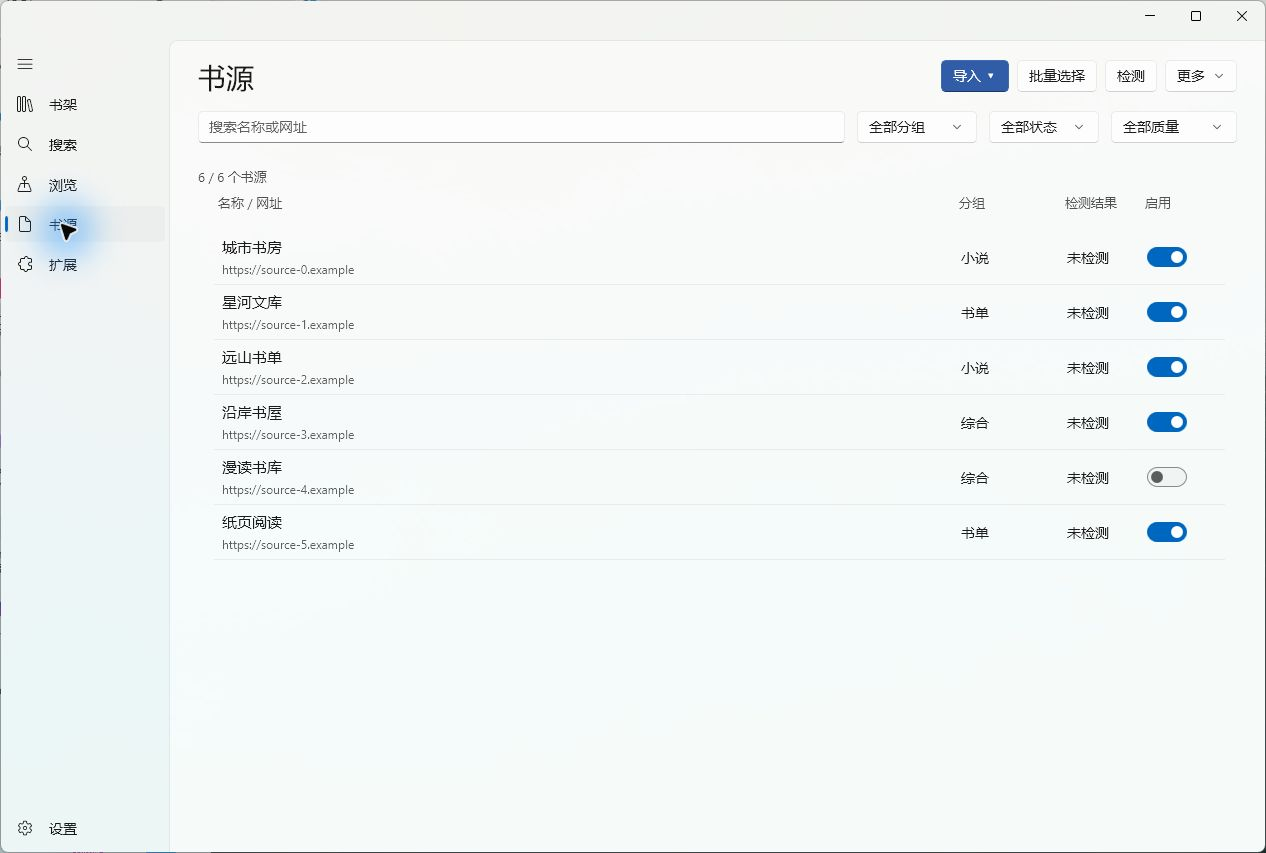
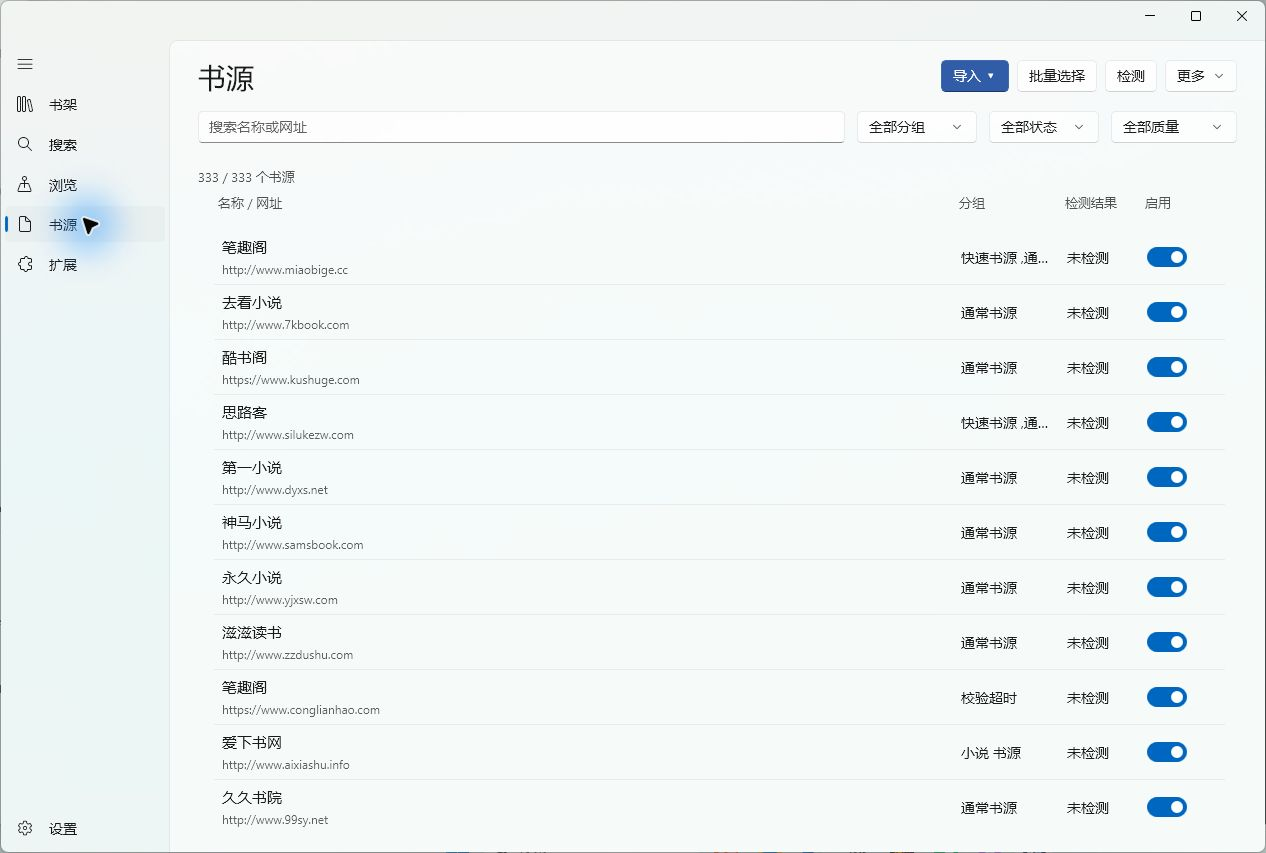
Show the actual 333-source library in the README

diff --git a/README.md b/README.md
@@ -18,7 +18,7 @@
 
 ## 界面截图
 
-截图中的书籍、正文和书源均为演示数据。
+书架和阅读器截图使用演示数据，书源管理截图展示实际导入的 333 条书源，网址仅显示站点域名。
 
 ### 书架
 
@@ -30,7 +30,7 @@
 
 ### 书源管理
 
-![书源管理界面，展示导入、筛选、检测和批量选择](docs/screenshots/sources.png)
+![333 条书源的管理界面，展示导入、筛选、检测和批量选择](docs/screenshots/sources.png)
 
 ## 下载与运行
 
